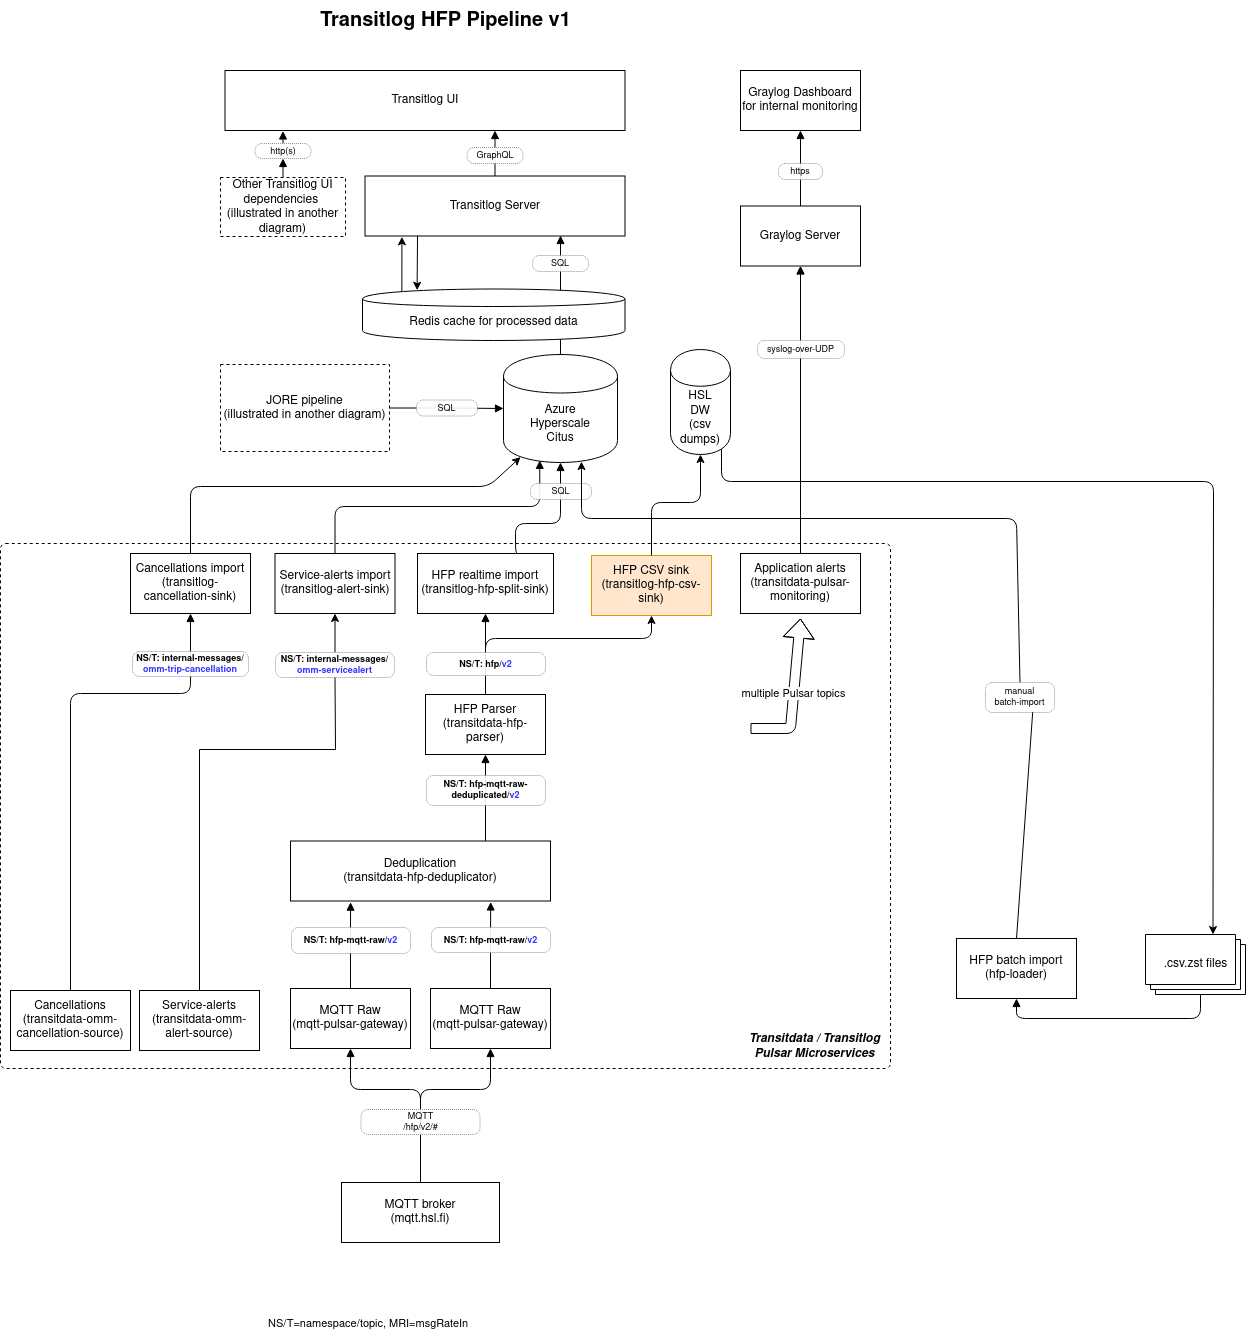
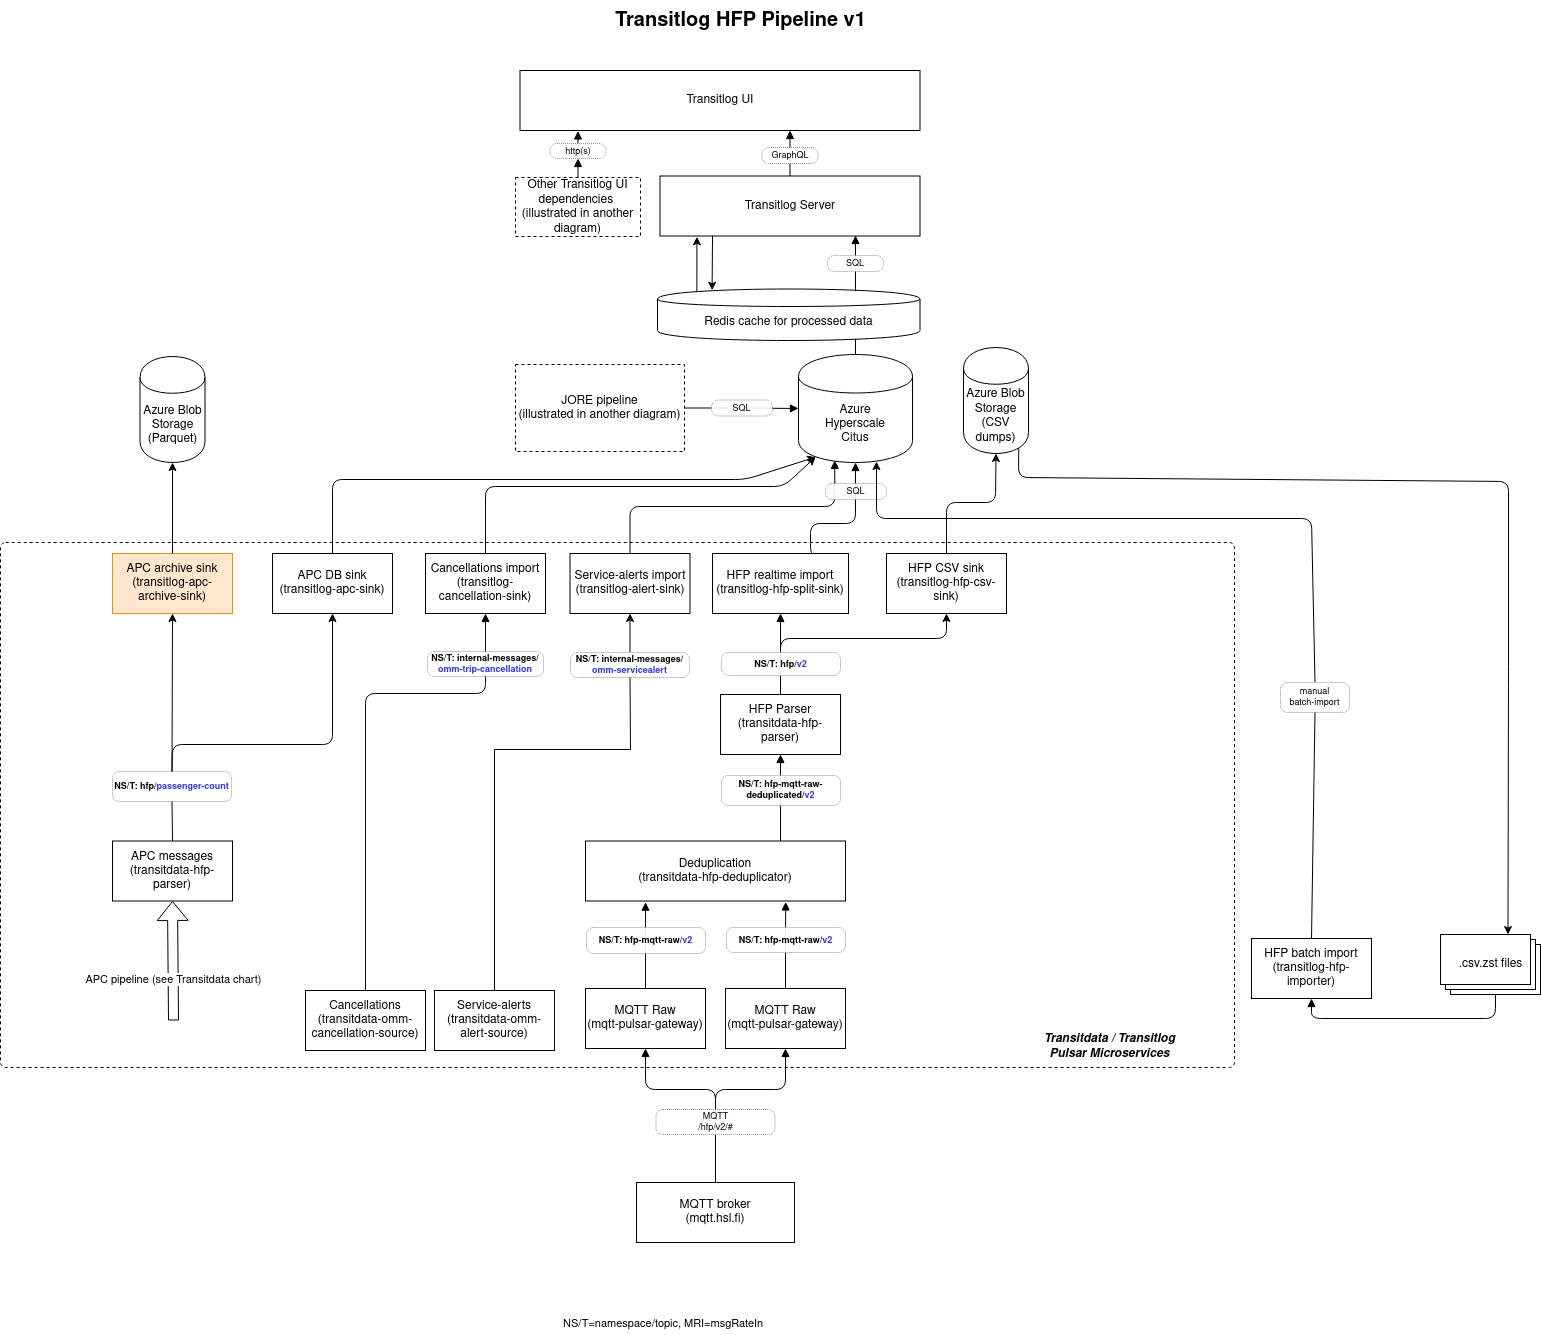
Update README and flow charts

diff --git a/README.md b/README.md
@@ -26,18 +26,17 @@ Overall system requirements for running the system are:
 ![Alt text](transitdata_data_flow_drawio.png?raw=true "Transitdata System Architecture")
 
 #### Transitdata input
-- mqtt.hsl.fi vehicle positions in [HFP](https://digitransit.fi/en/developers/apis/4-realtime-api/vehicle-positions/) format (all vehicles)
-- hsl-mqtt-lab-a.cinfra.fi estimates for stop time (metros)
-- Pubtrans ROI: estimates for stop time (bus and trams)
+- mqtt.hsl.fi: vehicle positions in [HFP](https://digitransit.fi/en/developers/apis/4-realtime-api/vehicle-positions/) format (all vehicles)
+- hsl-mqtt-lab-a.cinfra.fi: estimates for stop time (metros)
+- Pubtrans ROI: estimates for stop time (buses, trams, trains)
 - Pubtrans DOI: static data (schedule, stops, routes)
-- api.digitransit.fi/realtime/service-alerts/v1: not used
 - OMM DB: service alerts (cancellations, disruptions)
-- raildigitraffic2gtfsrt: train stop estimates (to be replaced by a service connected to ratadigitraffic)
 - sm5.rt.hsl.fi: EKE message from SM5 trains
+- apc.rt.hsl.fi: Passenger count data
 
 #### Transitdata output
 
-- MQTT Broker cmqttdv.cinfra.fi: vehicle position in GTFS-RT format (HSL displays at stops)
+- MQTT Broker cmqttdev.cinfra.fi: vehicle position in GTFS-RT format (HSL displays at stops)
 - Azure Blob storage: used for publishing vehicle position, trip updates and service alerts in GTFS-RT format (for Google Maps and 3rd-party applications) and for archiving messages (HFP and EKE) in CSV files
 - MQTT Broker pred.rt.hsl.fi -> Reittiopas.fi: stop estimates in GTFS-RT format
   - **Note:** this MQTT broker is intended to be used by HSL systems only. Its functionality can be changed without a notice and there is no guarantee that it will work for third-party applications.
@@ -55,6 +54,8 @@ Components are stored in their own Github Repositories:
 
 #### Transitdata components
 
+**Note:** this does not contain comprehensive list of services in Transitdata. Search for `transitdata-` in GitHub to find all Transitdata services.
+
 ##### Sources
 
 - [transitdata-cache-bootstrapper](https://github.com/HSLdevcom/transitdata-cache-bootstrapper) fills journey-metadata to Redis cache for the next step
@@ -62,7 +63,6 @@ Components are stored in their own Github Repositories:
 - [transitdata-omm-cancellation-source](https://github.com/HSLdevcom/transitdata-omm-cancellation-source) reads OMM database and generates TripUpdate trip cancellations
 - [transitdata-omm-alert-source](https://github.com/HSLdevcom/transitdata-omm-alert-source) reads OMM database and generates internal service alert messages
 - [transitdata-stop-cancellation-source](https://github.com/HSLdevcom/transitdata-stop-cancellation-source) reads OMM database and generates internal service stop cancellation messages
-- [transitdata-rail-tripupdate-source](https://github.com/HSLdevcom/transitdata-rail-tripupdate-source) reads GTFS-RT trip updates from Digitransit rail trip update API
 - [pulsar-mqtt-gateway](https://github.com/HSLdevcom/pulsar-mqtt-gateway) subscribes to a MQTT topic and publishes raw MQTT messages to a Pulsar topic, can be used with any MQTT-based data source
 
 ##### Processors
@@ -81,17 +81,18 @@ Components are stored in their own Github Repositories:
 
 - [pulsar-mqtt-gateway](https://github.com/HSLdevcom/pulsar-mqtt-gateway) routes Pulsar messages to MQTT broker
 - [transitdata-gtfsrt-full-publisher](https://github.com/HSLdevcom/transitdata-gtfsrt-full-publisher) publishes GTFS-RT Full dataset
-- [transitdata-pulsar-monitoring](https://github.com/HSLdevcom/transitdata-pulsar-monitoring) creates information about the state of the current pipeline for monitoring purposes
 
-##### Unused components
+##### Other
 
-- [transitdata-hslalert-source](https://github.com/HSLdevcom/transitdata-hslalert-source) reads trip cancellations from HSL public HTML API and generates TripUpdate cancellations. Not in use anymore.
+These components are not connected to the Pulsar cluster, but they are deployed to the same environment as Transitdata and they produce data that Transitdata uses
+
+- [suomenlinna-ferry-hfp](https://github.com/HSLdevcom/suomenlinna-ferry-hfp) Creates HFP messages for Suomenlinna ferries from AIS data
+- [gtfsrt2hfp](https://github.com/HSLdevcom/gtfsrt2hfp) Creates HFP messages from GTFS-RT vehicle positions, currently used for U-bus 280 
 
 #### Transitlog HFP components
 
 - [transitlog-alert-sink](https://github.com/HSLdevcom/transitlog-alert-sink) application for inserting service alerts to PostgreSQL
-- [transitlog-hfp-sink](https://github.com/HSLdevcom/transitlog-hfp-sink)
-  Insert HFP data from Pulsar to TimescaleDB
+- [transitlog-hfp-split-sink](https://github.com/HSLdevcom/transitlog-hfp-split-sink) Insert HFP data from Pulsar to Transitlog DB (Citus)
 - [transitdata-hfp-parser](https://github.com/HSLdevcom/transitdata-hfp-parser) parses MQTT raw topic & payload into Protobuf with HFP schema
 - [transitdata-hfp-deduplicator](https://github.com/HSLdevcom/transitdata-hfp-deduplicator) deduplicate data read from Pulsar topic(s)
 - [mqtt-pulsar-gateway](https://github.com/HSLdevcom/mqtt-pulsar-gateway) application for reading data from MQTT topic and feeding it into Pulsar topic. This application doesn't care about the payload, it just transfers the bytes.
